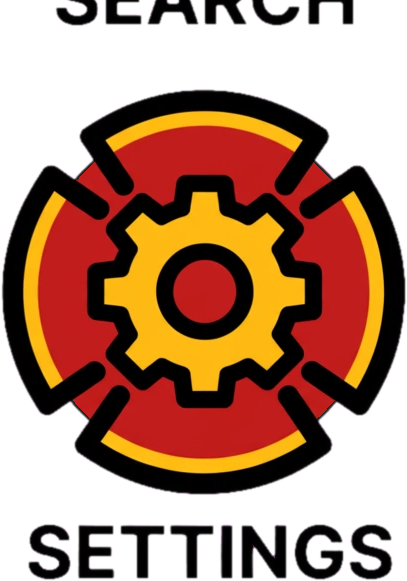
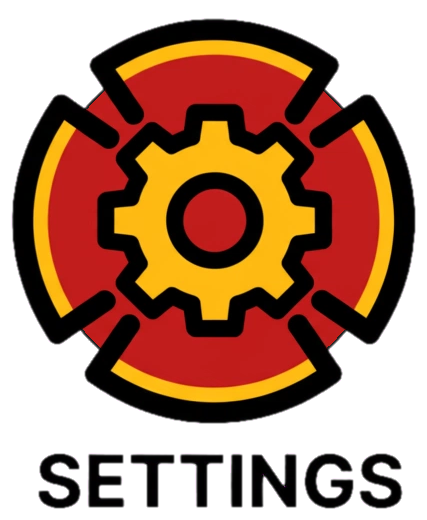
Add files via upload

diff --git a/app/globals.css b/app/globals.css
@@ -914,3 +914,31 @@ input::placeholder,textarea::placeholder{color:currentColor!important;opacity:.7
     flex-basis:30px;
   }
 }
+
+
+/* KCFD mobile nav cleanup: transparent source art, even sizing, no clipping. */
+@media(max-width:640px){
+  .nkc-mobile-bottom-nav[data-theme="kcfd"]{
+    min-height:92px !important;
+    padding-top:5px !important;
+    padding-bottom:5px !important;
+  }
+  .nkc-mobile-bottom-nav[data-theme="kcfd"] .nkc-bottom-nav-orb-item,
+  .nkc-mobile-bottom-nav[data-theme="kcfd"] .nkc-bottom-nav-plus{
+    width:80px !important;
+    height:80px !important;
+    padding:2px !important;
+    overflow:visible !important;
+  }
+  .nkc-mobile-bottom-nav[data-theme="kcfd"] .nkc-custom-theme-nav-icon,
+  .nkc-mobile-bottom-nav[data-theme="kcfd"] .nkc-custom-theme-plus-icon{
+    width:68px !important;
+    height:68px !important;
+    object-fit:contain !important;
+    object-position:center !important;
+  }
+  .nkc-mobile-bottom-nav[data-theme="kcfd"] .nkc-custom-theme-plus-icon{
+    width:70px !important;
+    height:70px !important;
+  }
+}
